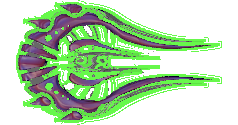
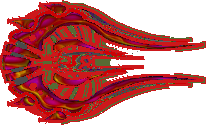
made the follow enemy smarter

diff --git a/src/neurogame/gameplay/Enemy.java b/src/neurogame/gameplay/Enemy.java
@@ -157,7 +157,7 @@ public class Enemy extends GameObject
       
       if (enemyList[i].getX() > getX()) continue;
       
-      if (Math.abs(lastVelocityY) > 0.000001) velocity.y = lastVelocityY;
+      if (Math.abs(lastVelocityY) > maxDistanceChange/3.0) velocity.y = lastVelocityY;
       else if (vertex != null)
       { if (getCenterY() > vertex.getCenter()) velocity.y = -maxDistanceChange/2.0;
         else velocity.y = maxDistanceChange/2.0;
@@ -170,18 +170,23 @@ public class Enemy extends GameObject
   
   public void strategyFollow(double maxDistanceChange, double scrollDistance)
   {
-    if (enemyFollowStoppedFollowing) strategyStraight(maxDistanceChange, scrollDistance);
-    else
-    {
-      Player player = world.getPlayer();
-      velocity.x = scrollDistance + player.getCenterX() - (getX() + getType().getWidth()/2);
-      velocity.y = player.getCenterY() - (getY() + getType().getHeight()/2);
-      
-      velocity.setMaxMagnitude(maxDistanceChange);
+    double lastVelocityY =  velocity.y;
     
-      if (getX() + getWidth()*(2 + 8*Library.RANDOM.nextDouble()) < player.getX())
-      { enemyFollowStoppedFollowing = true;
-      }
+    if (enemyFollowStoppedFollowing) 
+    { strategyStraight(maxDistanceChange, scrollDistance);
+      return;
+    }
+    
+   
+    Player player = world.getPlayer();
+    if (!player.isAlive()) enemyFollowStoppedFollowing = true;
+    velocity.x = scrollDistance + player.getCenterX() - (getX() + getType().getWidth()/2);
+    velocity.y = player.getCenterY() - (getY() + getType().getHeight()/2);
+      
+    velocity.setMaxMagnitude(maxDistanceChange);
+    
+    if (getX() + getWidth()*(4 + 8*Library.RANDOM.nextDouble()) < player.getX())
+    { enemyFollowStoppedFollowing = true;
     }
     
     boolean changedSpeedToAvoidWall = false;
@@ -204,6 +209,38 @@ public class Enemy extends GameObject
       }
     }
     
+    boolean takeEvasiveAction = false;
+    //Avoid hitting other palyer enemies
+    for (int i=0; i<MAX_ENEMY_COUNT; i++)
+    {
+      if ((enemyList[i] == null) || (enemyList[i] == this)) continue;
+      if (!enemyList[i].isAlive) continue;
+      
+      if (Math.abs(enemyList[i].getY() - getY()) > getType().getHeight()) continue;
+      
+      if (enemyList[i].getX() > getX()) continue;
+      
+      takeEvasiveAction = true;
+    }
+    
+    //Avoid missiles
+    Missile curMissile = Missile.getCurrentMissile();
+    if ((curMissile != null) &&  (curMissile.isAlive()))
+    {  
+      if (Math.abs(curMissile.getY() - getY()) < getType().getHeight())
+      { 
+        if (curMissile.getX() < getX()) 
+        {  takeEvasiveAction = true;
+        }
+      }
+    }
+    if (takeEvasiveAction )
+    { if (Math.abs(lastVelocityY) > maxDistanceChange/3.0) velocity.y = lastVelocityY;
+      else
+      { if (getCenterY() > player.getCenterY()) velocity.y = maxDistanceChange/2.0;
+        else velocity.y = -maxDistanceChange/2.0;
+      }
+    }
   }
   
   

diff --git a/src/neurogame/level/World.java b/src/neurogame/level/World.java
@@ -17,6 +17,7 @@ import neurogame.library.Library;
 public class World
 {
   private final Player player;
+  private double playerHealthAtStartOfLastChunk;
   private Chunk chunkLeft, chunkRight;
   private ArrayList<GameObject> gameObjectList = new ArrayList<GameObject>();
   private ArrayList<GameObject> objectWaitList = new ArrayList<GameObject>();
@@ -41,6 +42,7 @@ public class World
     Library.leftEdgeOfWorld = 0.0;
     windowWidth = Library.getWindowAspect();
     frameCountSinceLastChunkTypeChange = 0;
+    playerHealthAtStartOfLastChunk = Library.HEALTH_MAX;
 
     player = new Player(0.1, 1 / 2.0, this);
     
@@ -61,8 +63,8 @@ public class World
 
     chunkLeft = new Chunk(null, windowWidth, EnumChunkType.FLAT, EnumChunkType.FLAT.getDefaultOpeningHeight());
 
-    double gapHeight = skillBasedChunkGapHeight[EnumChunkType.SMOOTH.ordinal()];
-    chunkRight = new Chunk(chunkLeft, windowWidth, EnumChunkType.SMOOTH, gapHeight);
+    double gapHeight = skillBasedChunkGapHeight[EnumChunkType.SPIKE.ordinal()];
+    chunkRight = new Chunk(chunkLeft, windowWidth, EnumChunkType.SPIKE, gapHeight);
     
 
     crystalWalls = new CrystalGrower(chunkLeft, chunkRight);
@@ -120,21 +122,23 @@ public class World
     }
     
     double gapHeight = skillBasedChunkGapHeight[pathType.ordinal()];
-
-    if (player.getCollisionCountInCurrentChunk() == 0)
+    double currentPlayerHealth = player.getHealth();
+    
+    if (currentPlayerHealth >= playerHealthAtStartOfLastChunk)
     {
       gapHeight = gapHeight * 0.9;
       if (gapHeight < pathType.getMinimumOpeningHeight()) gapHeight = pathType.getMinimumOpeningHeight();
     }
-    else if (player.getCollisionCountInCurrentChunk() >= 2)
+    else
     {
-      gapHeight = gapHeight * 1.1;
+      double percentHealthLoss = (playerHealthAtStartOfLastChunk - currentPlayerHealth)/playerHealthAtStartOfLastChunk;
+      gapHeight = gapHeight * (1 + percentHealthLoss);;
       if (gapHeight > pathType.getDefaultOpeningHeight()) gapHeight = pathType.getDefaultOpeningHeight();
     }
     
+    System.out.println("World.createChunk(type="+pathType+"): gapHeight="+gapHeight);
     skillBasedChunkGapHeight[pathType.ordinal()] = gapHeight;
-    player.resetCollisionCountInCurrentChunk();
-    
+    playerHealthAtStartOfLastChunk = currentPlayerHealth;
     
     if (pathType == chunkRight.getChunkType()) frameCountSinceLastChunkTypeChange++;
 

diff --git a/src/neurogame/level/EnumChunkType.java b/src/neurogame/level/EnumChunkType.java
@@ -9,6 +9,7 @@ import neurogame.library.Library;
 
 public enum EnumChunkType
 {
+  
   FLAT
   { public double getMaxChange()  { return 0.1; }
     public double getStepSize()  { return 0.1; }
@@ -21,7 +22,7 @@ public enum EnumChunkType
   SMOOTH
   { public double getMaxChange() { return 0.01; }
     public double getStepSize()  { return 0.01; }
-    public double getDefaultOpeningHeight()  { return 0.6; }
+    public double getDefaultOpeningHeight()  { return 0.8; }
     public double getMinimumOpeningHeight()  { return 0.224; }
     public Ammo getPowerUp()  { return null; }
     public GameObjectType getEnemyType()  { return GameObjectType.ENEMY_STRAIGHT; }
@@ -30,7 +31,7 @@ public enum EnumChunkType
   SPIKE
   { public double getMaxChange() { return 0.1; }
     public double getStepSize() { return 0.1; }
-    public double getDefaultOpeningHeight() { return 0.6; }
+    public double getDefaultOpeningHeight() { return 0.8; }
     public double getMinimumOpeningHeight()  { return 0.224; }
     public Ammo getPowerUp() { return null; }
     public GameObjectType getEnemyType() {  return GameObjectType.ENEMY_FOLLOW; }
@@ -39,7 +40,7 @@ public enum EnumChunkType
   CURVED
   { public double getMaxChange() { return 0.05; }
     public double getStepSize() { return 0.1; }
-    public double getDefaultOpeningHeight() { return 0.6; }
+    public double getDefaultOpeningHeight() { return 0.8; }
     public double getMinimumOpeningHeight()  { return 0.224; }
     public Ammo getPowerUp() { return null; }
     public GameObjectType getEnemyType() { return GameObjectType.ENEMY_SINUSOIDAL; }
@@ -48,7 +49,7 @@ public enum EnumChunkType
   SQUARE
   { public double getMaxChange() { return 0.06; }
     public double getStepSize() { return 0.06; }
-    public double getDefaultOpeningHeight() { return 0.6; }
+    public double getDefaultOpeningHeight() { return 0.8; }
     public double getMinimumOpeningHeight()  { return 0.224; }
     public Ammo getPowerUp() { return null; }
     public GameObjectType getEnemyType() { return GameObjectType.ZAPPER; }
@@ -63,8 +64,8 @@ public enum EnumChunkType
   }
   
   public static final int SIZE = values().length;
-
   public static final double MAX_STEP_SIZE = 0.1;
+  
   public abstract double getMaxChange();
   public abstract double getStepSize();
   public abstract double getDefaultOpeningHeight();

diff --git a/src/neurogame/gameplay/Player.java b/src/neurogame/gameplay/Player.java
@@ -23,8 +23,6 @@ public class Player extends GameObject
   private boolean triggerReleasedSinceLastMissile;
 
   private boolean invulnerable = false;
-
-  private int collisionCountInCurrentChunk;
   
   private int collisionLogBitsThisUpdate;
   public static final int COLLISION_BITS_WALL_ABOVE = 1;
@@ -65,7 +63,6 @@ public class Player extends GameObject
   public void initGame()
   {
     health = Library.HEALTH_MAX;
-    collisionCountInCurrentChunk = 0;
     gameScore = 0;
     gameTotalSeconds = 0;
     timeOfLastWallCollision = 0;
@@ -189,7 +186,7 @@ public class Player extends GameObject
   public void hit(GameObject obj)
   {
     GameObjectType type = obj.getType();
-    if (type == GameObjectType.STAR) collectCoin(obj);
+    if (type == GameObjectType.STAR) collectStar(obj);
     else if (type.isEnemy()) crashedIntoEnemy(obj);
     else if (type == GameObjectType.AMMO)
     { addMissileCount(obj, 10);
@@ -230,7 +227,6 @@ public class Player extends GameObject
     health -= damage;
     if (health < 0) health = 0;
 
-    collisionCountInCurrentChunk++;
     
 //    skillProbabilitySpawnCoinPerSec += 0.05;
 //    if (skillProbabilitySpawnCoinPerSec > Star.MAX_PROBALITY_SPAWN_PER_SEC)
@@ -247,13 +243,13 @@ public class Player extends GameObject
     }
   }
 
-  public void collectCoin(GameObject star)
+  public void collectStar(GameObject star)
   {
     collisionLogBitsThisUpdate |= COLLISION_BITS_STAR;
     
-    health += Library.HEALTH_PER_COIN;
-    gameScore += Library.SCORE_COIN;
-    InfoMessage scoreInfo = new InfoMessage(star.getCenterX(), star.getCenterY(), world, String.valueOf(Library.SCORE_COIN));
+    health += Library.HEALTH_PER_STAR;
+    gameScore += Library.SCORE_STAR;
+    InfoMessage scoreInfo = new InfoMessage(star.getCenterX(), star.getCenterY(), world, String.valueOf(Library.SCORE_STAR));
     world.addGameObject(scoreInfo);
     
     
@@ -378,15 +374,6 @@ public class Player extends GameObject
     return (int) gameScore;
   }
 
-  public void resetCollisionCountInCurrentChunk()
-  {
-    collisionCountInCurrentChunk = 0;
-  }
-
-  public int getCollisionCountInCurrentChunk()
-  {
-    return collisionCountInCurrentChunk;
-  }
 
   public void addScore(double score)
   {

diff --git a/src/neurogame/library/Library.java b/src/neurogame/library/Library.java
@@ -73,8 +73,8 @@ public final class Library
   public static final int HEALTH_MAX = 100;
   public static final int ENEMY_POINTS = 100;
 
-  public static final int HEALTH_PER_COIN = 1;
-  public static final int SCORE_COIN = 10;
+  public static final int HEALTH_PER_STAR = 1;
+  public static final int SCORE_STAR = 10;
   public static final int SCORE_AMMOBOX = 40;
 
   public static final int DAMAGE_PER_WALL_HIT = 10;

diff --git a/src/neurogame/gameplay/GameObjectType.java b/src/neurogame/gameplay/GameObjectType.java
@@ -61,7 +61,7 @@ public enum GameObjectType
   
   ENEMY_FOLLOW
   { public String getName() {return "EnemyFollow";}
-    public double getWidth() {return 0.08;}
+    public double getWidth() {return 0.09936;}
     public double getHeight() {return 0.06;}
     public int getHitDamage() {return 25;}
     public boolean isEnemy() {return true;}
